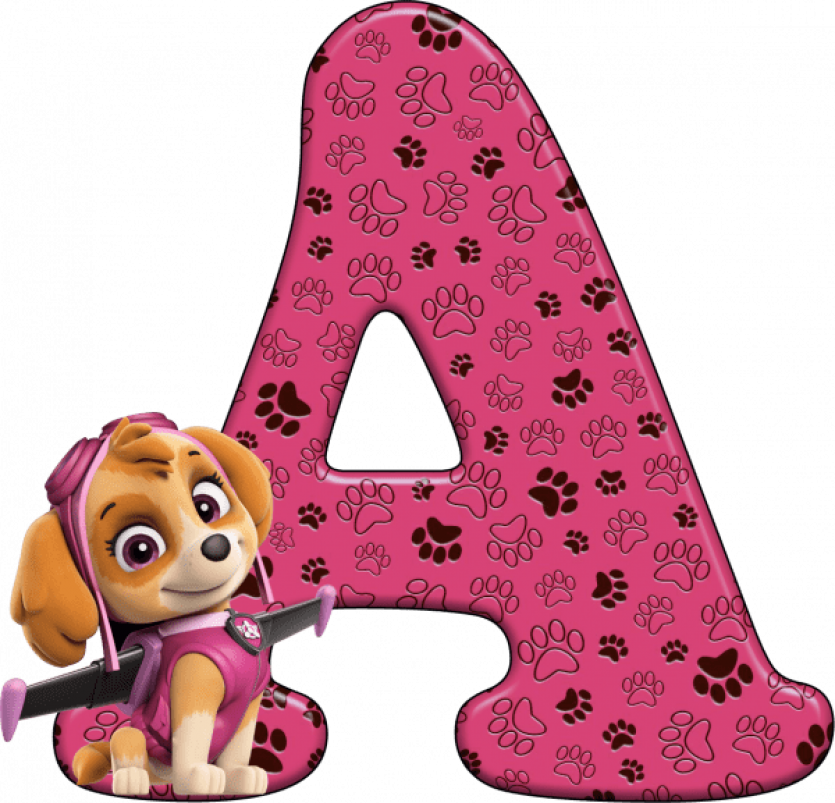
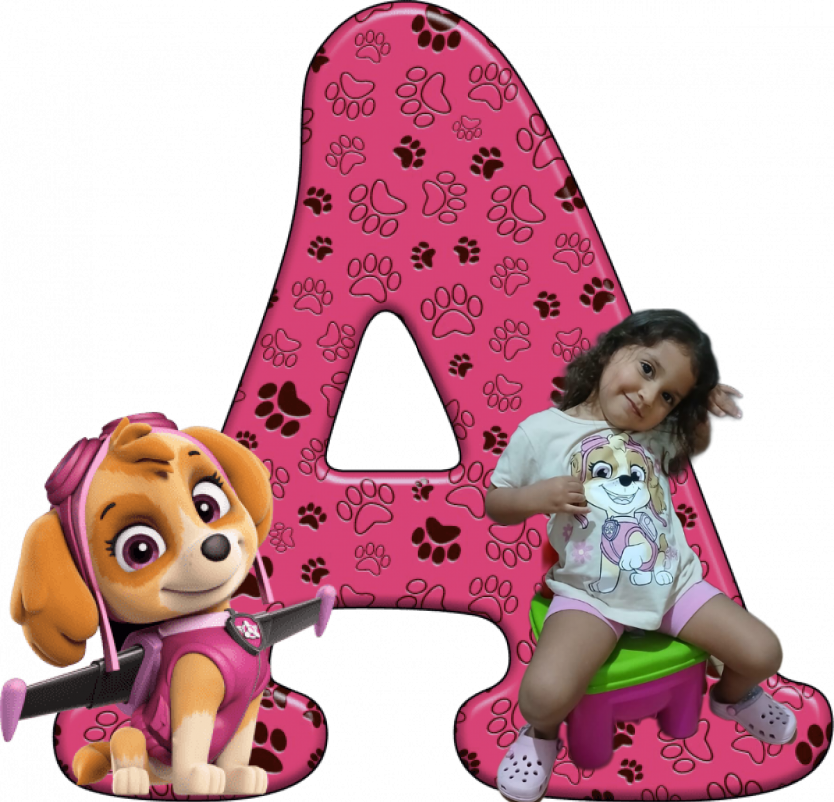
mudando imagem

diff --git a/index.html b/index.html
@@ -27,7 +27,6 @@
 
     <div class="card">
     <img src="image/skye-A.png" alt="Skye Patrulha Canina">
-    <img src="image/tonton.png" alt="Skye Patrulha Canina">
     <h1>Convite <br>
       🎉 Antonella 🎉</h1>
     <p>Venha comemorar meu aniversário de <strong>3 anos</strong>!</p>

diff --git a/style.css b/style.css
@@ -57,7 +57,7 @@
     }
 
     .card img {
-      width: 120px;
+      width: 180px;
       margin-bottom: 15px;
       animation: float 3s infinite ease-in-out;
     }
